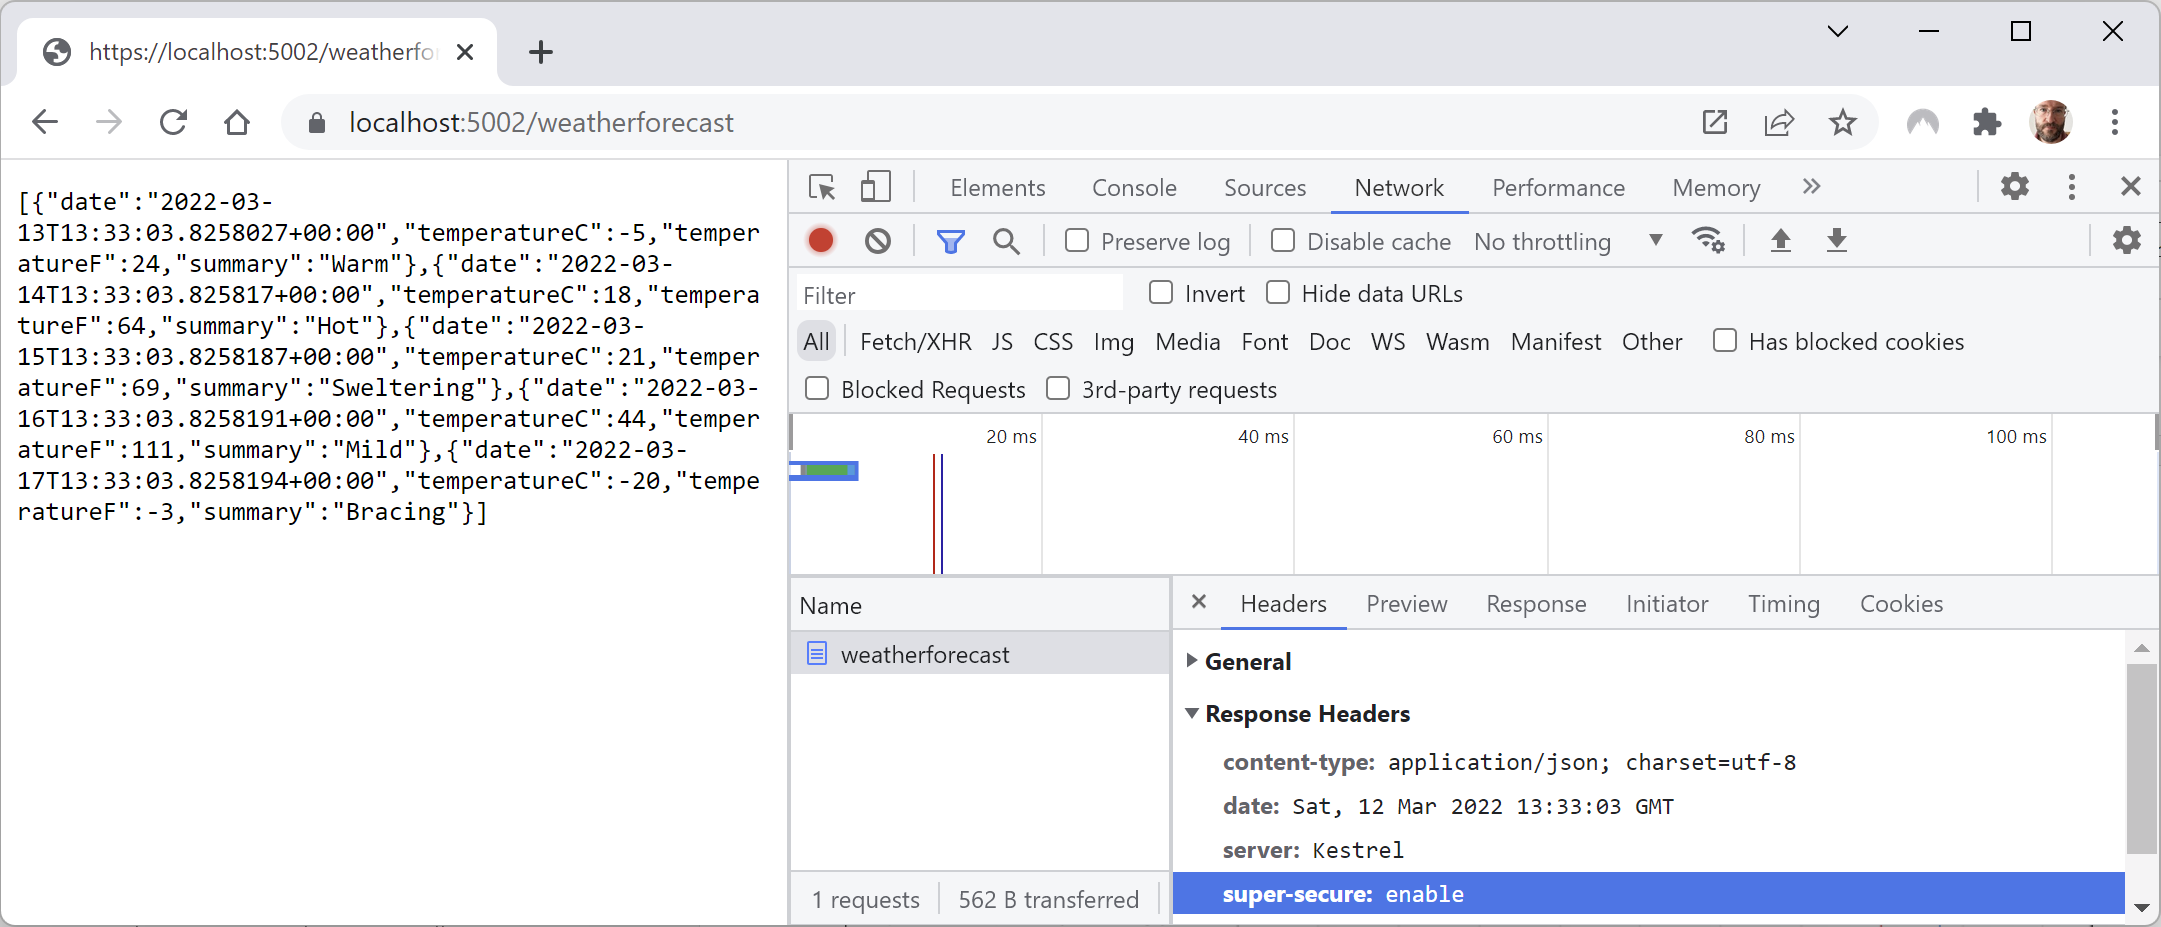
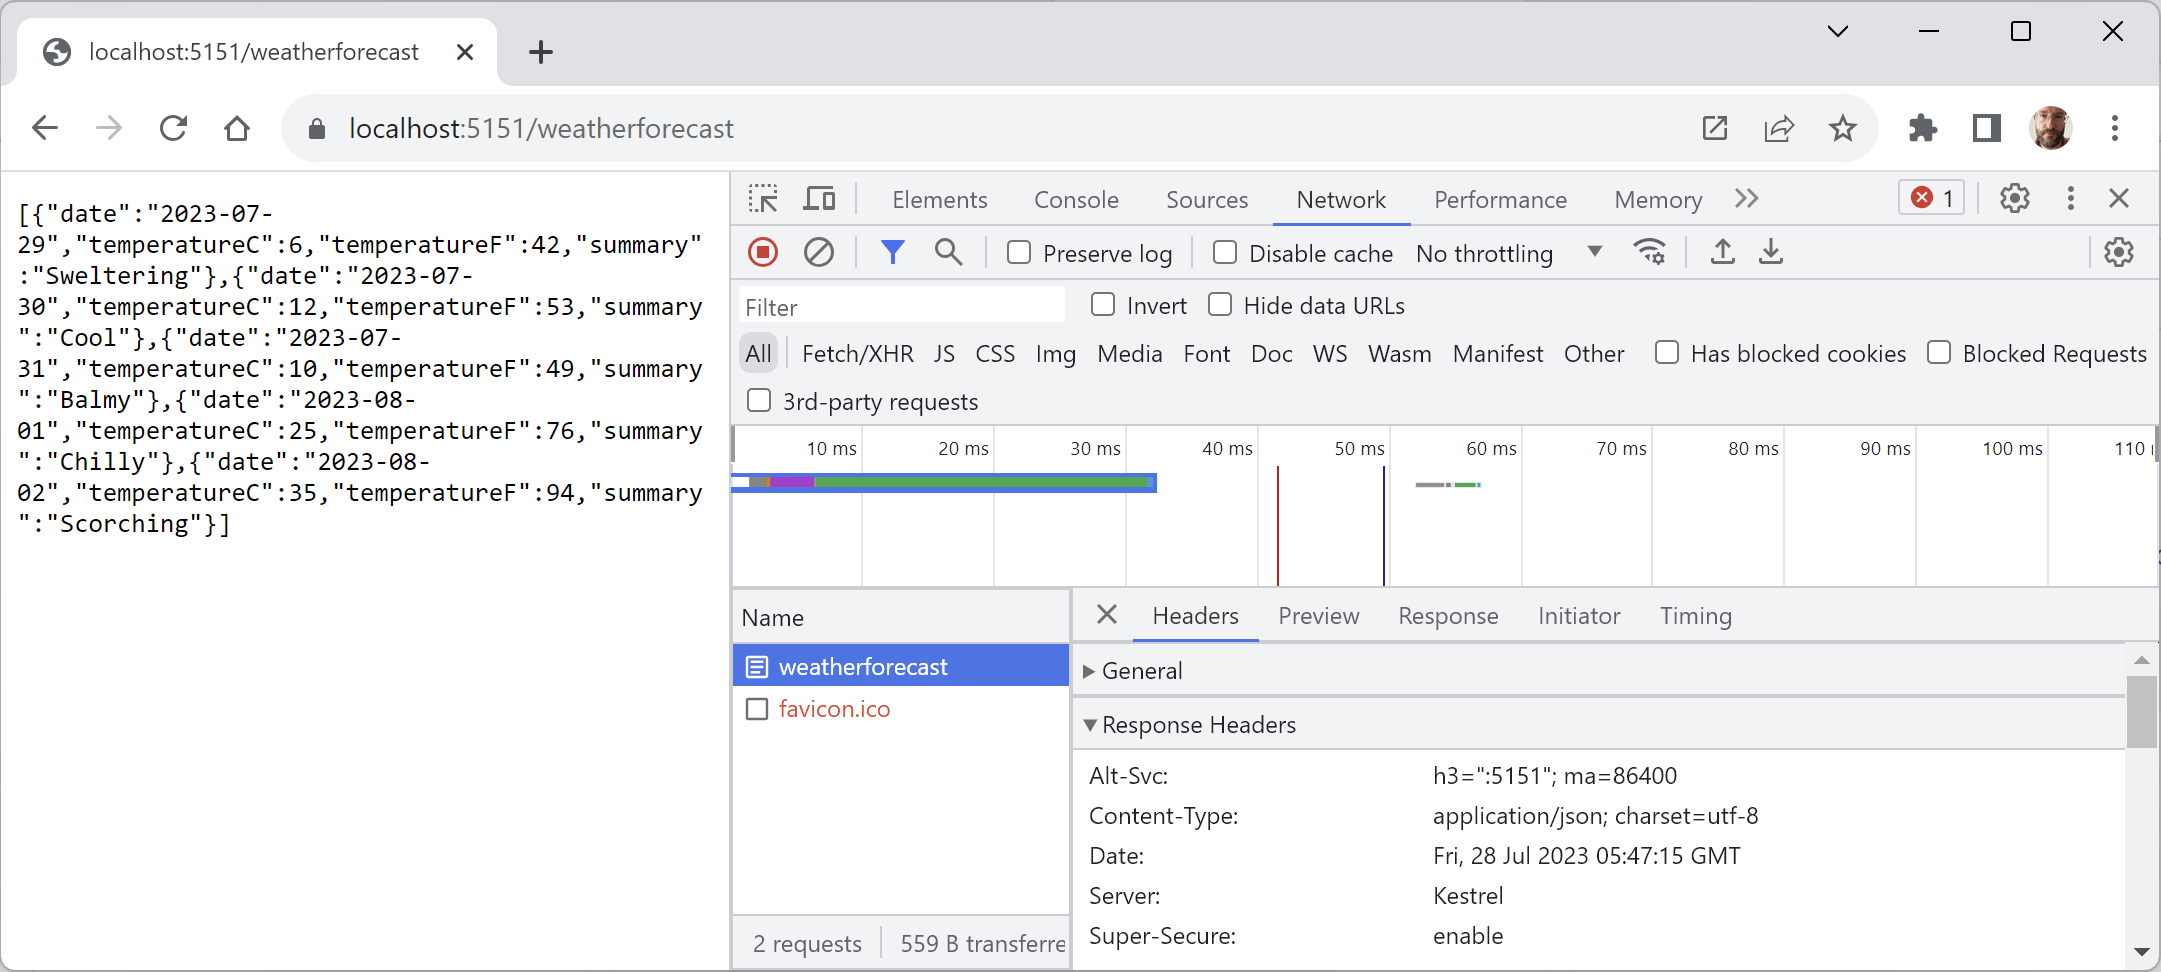
Update advanced services page

diff --git a/docs/ch15-advanced.md b/docs/ch15-advanced.md
@@ -4,7 +4,6 @@ Now that you have seen the fundamentals of building a web service and then calli
 
 - [Implementing a Health Check API](#implementing-a-health-check-api)
 - [Implementing Open API analyzers and conventions](#implementing-open-api-analyzers-and-conventions)
-- [Implementing transient fault handling](#implementing-transient-fault-handling)
 - [Adding security HTTP headers](#adding-security-http-headers)
 - [Enabling HTTP/3 support for HttpClient](#enabling-http3-support-for-httpclient)
 
@@ -18,36 +17,36 @@ Let's add basic health check capabilities to our web service:
 
 1.	In the `Northwind.WebApi` project, add package references to enable Entity Framework Core database health checks, as shown in the following markup:
 ```xml
-<PackageReference Include="AspNetCore.HealthChecks.SqlServer" Version="6.0.2" />
+<PackageReference Include="AspNetCore.HealthChecks.SqlServer" Version="7.0.0" />
 <PackageReference Include="Microsoft.Extensions.Diagnostics.HealthChecks.EntityFrameworkCore" Version="8.0.0" />
 ```
 
-> **Warning!** `AspNetCore.HealthChecks.SqlServer` is not officially supported by Microsoft.
+> **Warning!** `AspNetCore.HealthChecks.SqlServer` is not officially supported by Microsoft. At the time of writing version `7.0.0` was still a release candidate so you might have to use `7.0-*` until the final version is released.
 
-1.	Build the `Northwind.WebApi` project to restore packages.
-2.	In `Program.cs`, before the call to `Build`, add a statement to add health checks, including to the Northwind database context, and if you are using SQL Server instead of SQLite, as shown in the following code:
+2.	Build the `Northwind.WebApi` project to restore packages.
+3.	In `Program.cs`, before the call to `Build`, add a statement to add health checks, including to the Northwind database context, and if you are using SQL Server instead of SQLite, as shown in the following code:
 ```cs
 builder.Services.AddHealthChecks()
   .AddDbContextCheck<NorthwindContext>()
   // Execute SELECT 1 using the specified connection string.
-  .AddSqlServer("Data Source=.;Initial Catalog=Northwind;Integrated Security=true;");
+  .AddSqlServer("Data Source=.;Initial Catalog=Northwind;Integrated Security=true;TrustServerCertificate=true;");
 ```
 
 By default, the database context check calls EF Core's `IDatabaseCreator.CanConnectAsync` method. You can customize the method that is run by setting its name as a parameter in the `AddDbContextCheck` method.
 
-3.	In `Program.cs`, before the call to `MapControllers`, add a statement to use basic health checks, as shown in the following code:
+4.	In `Program.cs`, before the call to `MapControllers`, add a statement to use basic health checks, as shown in the following code:
 ```cs
 app.UseHealthChecks(path: "/howdoyoufeel");
 ```
-4.	Start the `Northwind.WebApi` web service project using the `https` launch profile.
-5.	Start Chrome.
-6.	Navigate to https://localhost:5151/howdoyoufeel and note that the web service responds with a plain text response: `Healthy`.
-7.	If you are using SQL Server, note the SQL statement that was executed to test the health of the database, as shown in the following output:
+5.	Start the `Northwind.WebApi` web service project using the `https` launch profile.
+6.	Start Chrome.
+7.	Navigate to https://localhost:5151/howdoyoufeel and note that the web service responds with a plain text response: `Healthy`.
+8.	If you are using SQL Server, note the SQL statement that was executed to test the health of the database, as shown in the following output:
 ```
 Level: Debug, Event Id: 20100, State: Executing DbCommand [Parameters=[], CommandType='Text', CommandTimeout='30']
 SELECT 1
 ```
-8.	Close Chrome and shut down the web server.
+9.	Close Chrome and shut down the web server.
 
 # Implementing Open API analyzers and conventions
 
@@ -63,6 +62,7 @@ To use it, your project must enable the OpenAPI Analyzers:
   <TargetFramework>net8.0</TargetFramework>
   <Nullable>enable</Nullable>
   <ImplicitUsings>enable</ImplicitUsings>
+  <InvariantGlobalization>false</InvariantGlobalization>
   <IncludeOpenAPIAnalyzers>true</IncludeOpenAPIAnalyzers>
 </PropertyGroup>
 ```
@@ -83,21 +83,17 @@ public async Task<IActionResult> Update(
 
 Automatic code fixes can then add the appropriate `[Produces]` and `[ProducesResponseType]` attributes, although this only currently works in Visual Studio 2022. In Visual Studio Code, you will see warnings about where the analyzer thinks you should add attributes, but you must add them yourself.
 
-# Implementing transient fault handling
-
-When a client app or website calls a web service, it could be from across the other side of the world. Network problems between the client and the server could cause issues that are nothing to do with your implementation code. If a client makes a call and it fails, the app should not just give up. If it tries again, the issue may now have been resolved. We need a way to handle these temporary faults.
-
-To handle these transient faults, Microsoft recommends that you use the third-party library Polly to implement automatic retries with exponential backoff. You define a policy, and the library handles everything else.
-
-> **Good Practice**: You can read more about how Polly can make your web services more reliable at the following link: https://learn.microsoft.com/en-us/dotnet/architecture/microservices/implement-resilient-applications/implement-http-call-retries-exponential-backoff-polly
-
 # Adding security HTTP headers
 
 ASP.NET Core has built-in support for common security HTTP headers like HSTS. But there are many more HTTP headers that you should consider implementing.
 
-The easiest way to add these headers is using a middleware class:
+The easiest way to add these headers is using a middleware class. First, we will create our own, and then I will point you to a GitHub repository that implements a full one.
 
-1.	In the `Northwind.WebApi` project/folder, create a file named `SecurityHeadersMiddleware.cs` and modify its statements, as shown in the following code:
+Let's see how you could build your own middleware:
+
+1.	In the `Northwind.WebApi` project/folder, add a new folder named `Middleware`.
+2.  In the `Middleware` folder, create a file named `SecurityHeadersMiddleware.cs`.
+3.  Modify its statements, as shown in the following code:
 ```cs
 using Microsoft.Extensions.Primitives; // To use StringValues.
 
@@ -113,68 +109,54 @@ public class SecurityHeaders
   public Task Invoke(HttpContext context)
   {
     // Add any HTTP response headers you want here.
-    context.Response.Headers.Add(
+    context.Response.Headers.Append(
       "super-secure", new StringValues("enable"));
 
     return next(context);
   }
 }
 ```
-2.	In `Program.cs`, before the call to `MapControllers`, add a statement to register the middleware, as shown in the following code:
+4.	In `Program.cs`, before the call to `MapControllers`, add a statement to register the middleware, as shown in the following code:
 ```cs
 app.UseMiddleware<SecurityHeaders>();
 ```
-3.	Start the web service project using the `https` launch profile.
-4.	Start Chrome.
-5.	Show Developer tools and its **Network** tab to record requests and responses.
-6.	Navigate to https://localhost:5151/weatherforecast.
-7.	Note the custom HTTP response header named super-secure that we added, as shown in *Figure 15A.2*:
+5.	Start the web service project using the `https` launch profile.
+6.	Start Chrome.
+7.	Show Developer tools and its **Network** tab to record requests and responses.
+8.	Navigate to https://localhost:5151/weatherforecast.
+9.	Note the custom HTTP response header named super-secure that we added, as shown in *Figure 15A.2*:
 
 ![Adding a custom HTTP header named super-secure](assets/B19586_15A_02.png)
 *Figure 15A.2: Adding a custom HTTP header named super-secure*
 
-> **Good Practice**: Instead of creating your own mechanism to add security headers, you could use Jamie Taylor's, found in the following GitHub repository: https://github.com/GaProgMan/OwaspHeaders.Core.
+> **Good Practice**: Instead of creating your own mechanism to add security headers, you could use Jamie Taylor's, found in the following GitHub repository: https://github.com/GaProgMan/OwaspHeaders.Core/blob/main/README.md.
 
 # Enabling HTTP/3 support for HttpClient
 
-In *Chapter 13, Building Websites Using ASP.NET Core Razor Pages*, you learned how to enable HTTP/3 support in the Kestrel web server. Now we will see how to enable HTTP/3 on the client side. First, we need to enable all versions of HTTP in the web service project:
+In *Chapter 13, Building Websites Using ASP.NET Core Razor Pages*, you learned how to enable HTTP/3 support in the Kestrel web server. Now we will see how to enable HTTP/3 on the client side:
 
-1.	In the `Northwind.WebApi` project/folder, in `Program.cs`, import the namespace for working with HTTP protocols, as shown in the following code:
-```cs
-using Microsoft.AspNetCore.Server.Kestrel.Core; // To use HttpProtocols.
-```
-2.	In `Program.cs`, add statements before the call to `Build` to enable all three versions of HTTP, as shown in the following code:
-```cs
-builder.WebHost.ConfigureKestrel((context, options) =>
-{
-  options.ListenAnyIP(5151, listenOptions =>
-  {
-    listenOptions.Protocols = HttpProtocols.Http1AndHttp2AndHttp3;
-    listenOptions.UseHttps(); // HTTP/3 requires secure connections
-  });
-});
-```
-3.	In `appSettings.json`, add an entry to show hosting diagnostics, as shown highlighted in the following configuration:
+1.	In the `Northwind.WebApi` project/folder, in `appSettings.json`, add an entry to show hosting diagnostics, as shown highlighted in the following configuration:
 ```json
 {
   "Logging": {
     "LogLevel": {
       "Default": "Information",
       "Microsoft.AspNetCore": "Warning",
+      "Microsoft.AspNetCore.HttpLogging.HttpLoggingMiddleware": "Information",
       "Microsoft.AspNetCore.Hosting.Diagnostics": "Information"
     }
 ```
-4.	In the `Northwind.Mvc` project/folder, add an element to enable HTTP/3 support, as shown in the following markup:
+4.	In the `Northwind.Mvc.csproj` project file, add an element to enable HTTP/3 support, as shown in the following markup:
 ```xml
 <ItemGroup>
   <RuntimeHostConfigurationOption Include="System.Net.SocketsHttpHandler.Http3Support" Value="true" />
 </ItemGroup>
 ```
-5.	In `Program.cs`, import the namespace for setting the HTTP version, as shown in the following code:
+5.	In the `Northwind.Mvc` project, in `Program.cs`, import the namespace for setting the HTTP version, as shown in the following code:
 ```cs
 using System.Net; // To use HttpVersion.
 ```
-5.	In `Program.cs`, add statements to the configuration of the HTTP client for the `Northwind.WebApi` service to set the default version to 3.0, and to fall back to earlier versions if HTTP/3 is not supported by the web service, as shown in the following code:
+5.	In the `Northwind.Mvc` project, in `Program.cs`, add statements to the configuration of the HTTP client for the `Northwind.WebApi` service to set the default version to 3.0, and to fall back to earlier versions if HTTP/3 is not supported by the web service, as shown in the following code:
 ```cs
 builder.Services.AddHttpClient(name: "Northwind.WebApi",
   configureClient: options =>
@@ -183,7 +165,9 @@ builder.Services.AddHttpClient(name: "Northwind.WebApi",
     options.DefaultVersionPolicy = HttpVersionPolicy.RequestVersionOrLower;
 
     options.BaseAddress = new Uri("https://localhost:5151/");
-    ...
+    options.DefaultRequestHeaders.Accept.Add(
+      new MediaTypeWithQualityHeaderValue(
+      mediaType: "application/json", quality: 1.0));
   });
 ```
 6.	Start the `Northwind.WebApi` project and confirm that the web service is listening only on port 5151, as shown in the following output:
